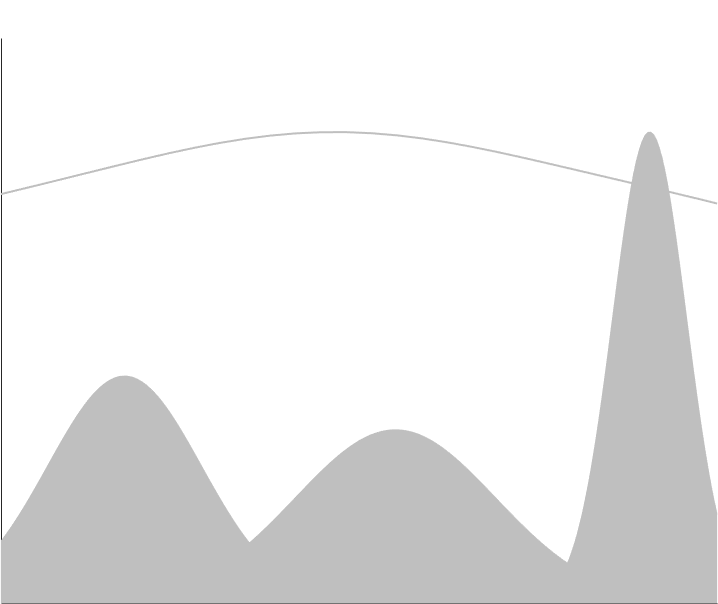
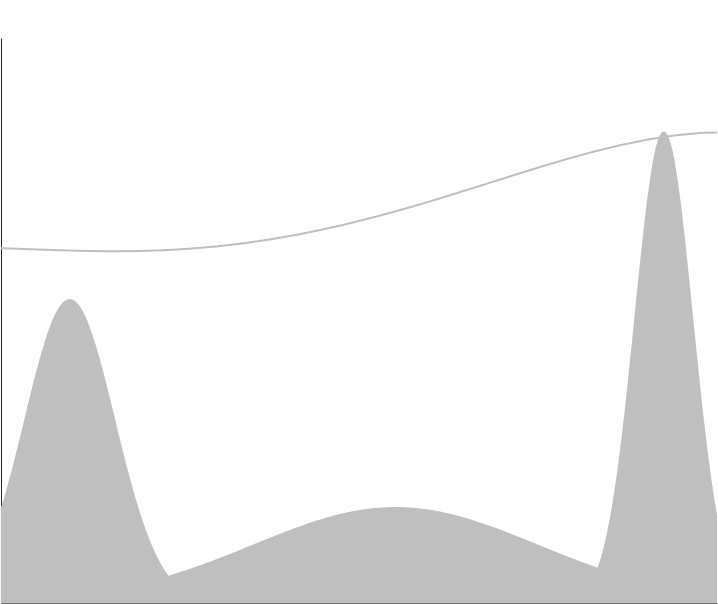
updated spikes plot

diff --git a/code/spikes.m b/code/spikes.m
@@ -6,7 +6,7 @@ print_fig=1;
 n=200;
 
 
-for jj=1:5
+for jj=1
     x=2*rand(n,1);
     x=sort(x);
     [foo,bar]=hist(x,20);
